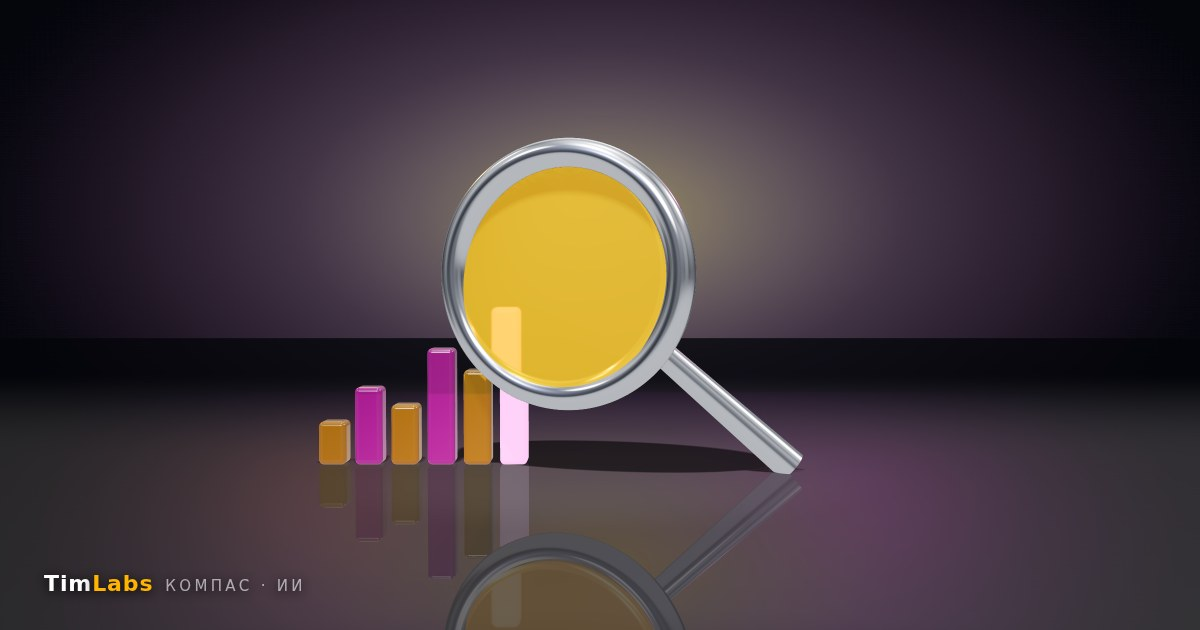
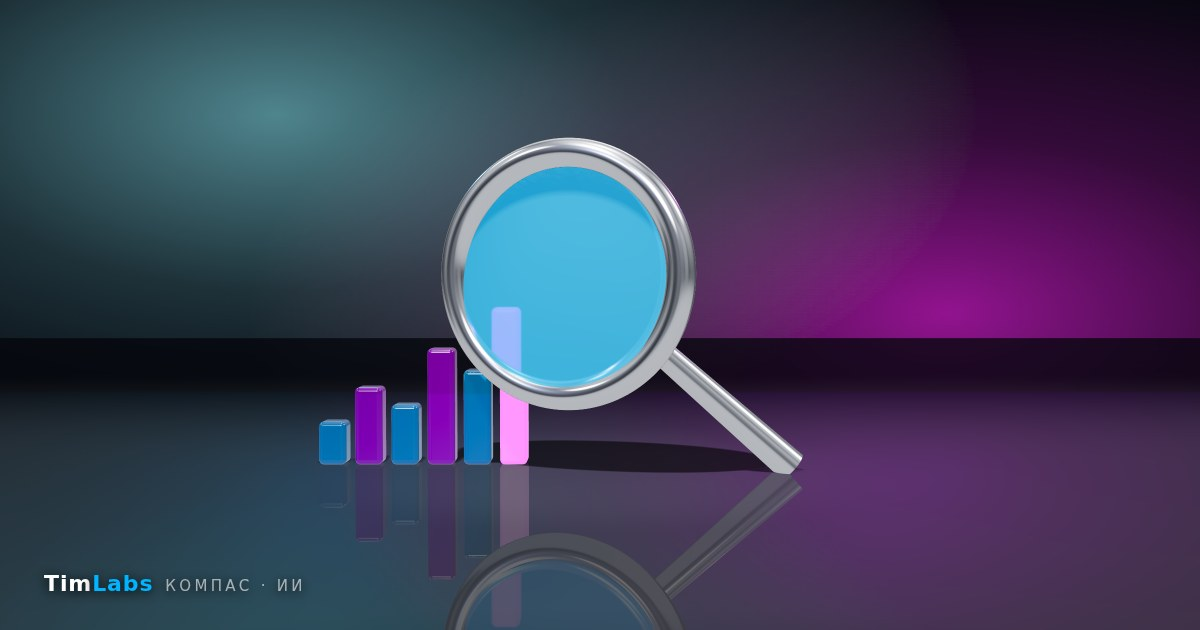
Обложки 3D в фирменной гамме сайта: голубой #00b4ff, пурпурный #d100ff, фон #05070e
Claude-Session: https://claude.ai/code/session_016YepRkJqQsofeKzdWsAcDY

diff --git a/tools/covers/scene.html b/tools/covers/scene.html
@@ -10,12 +10,12 @@ import {FontLoader} from 'three/addons/loaders/FontLoader.js';
 import {TextGeometry} from 'three/addons/geometries/TextGeometry.js';
 import {Reflector} from 'three/addons/objects/Reflector.js';
 const P=new URLSearchParams(location.search),K=P.get('k');
-const C={funnel:['#00b4ff','#d100ff'],agents:['#2aabee','#9b6cff'],channel:['#00e0c6','#2aabee'],seo:['#ffb400','#ff4fd8'],si:['#ff4fd8','#00b4ff']}[K];
+const C=['#00b4ff','#d100ff'];// фирменная гамма сайта: --cyan, --magenta
 document.documentElement.style.setProperty('--a',C[0]);
 const r=new T.WebGLRenderer({antialias:true,preserveDrawingBuffer:true});r.setPixelRatio(2);r.setSize(1200,630);
 r.toneMapping=T.ACESFilmicToneMapping;r.toneMappingExposure=1.05;r.shadowMap.enabled=true;r.shadowMap.type=T.VSMShadowMap;
 document.getElementById('w').prepend(r.domElement);
-const s=new T.Scene();s.background=new T.Color('#04060c');s.fog=new T.Fog('#04060c',13,26);
+const s=new T.Scene();s.background=new T.Color('#05070e');s.fog=new T.Fog('#05070e',13,26);
 const pm=new T.PMREMGenerator(r);s.environment=pm.fromScene(new RoomEnvironment(),0.04).texture;s.environmentIntensity=.6;const hemi=new T.DirectionalLight('#9fb4ff',1.2);hemi.position.set(-3,4,6);s.add(hemi);
 const cam=new T.PerspectiveCamera(32,1200/630,.1,100);cam.position.set(0,2.1,12.2);cam.lookAt(0,1.75,0);
 // floor: dark glossy
@@ -28,15 +28,16 @@ const r1=new T.PointLight(C[0],45,16,2);r1.position.set(-4.5,6,-6);s.add(r1);
 const r2=new T.PointLight(C[1],45,16,2);r2.position.set(4.5,6,-6);s.add(r2);
 const fill=new T.RectAreaLight?null:null;
 // back glow wall
-const g=document.createElement('canvas');g.width=g.height=512;const x=g.getContext('2d');const gr=x.createRadialGradient(256,256,0,256,256,256);gr.addColorStop(0,C[0]+'aa');gr.addColorStop(.45,C[1]+'44');gr.addColorStop(1,'#00000000');x.fillStyle=gr;x.fillRect(0,0,512,512);
-const glow=new T.Mesh(new T.PlaneGeometry(26,14),new T.MeshBasicMaterial({map:new T.CanvasTexture(g),transparent:true,depthWrite:false,fog:false}));glow.position.set(0,3.4,-9);s.add(glow);
+const g=document.createElement('canvas');g.width=g.height=512;const x=g.getContext('2d');x.fillStyle='#00000000';x.fillRect(0,0,512,512);
+for(const [cx,cy,c] of [[150,190,C[0]],[370,320,C[1]]]){const gr=x.createRadialGradient(cx,cy,0,cx,cy,230);gr.addColorStop(0,c+'99');gr.addColorStop(.5,c+'33');gr.addColorStop(1,c+'00');x.fillStyle=gr;x.fillRect(0,0,512,512)}
+const glow=new T.Mesh(new T.PlaneGeometry(30,15),new T.MeshBasicMaterial({map:new T.CanvasTexture(g),transparent:true,depthWrite:false,fog:false}));glow.position.set(0,3.4,-9);s.add(glow);
 const chrome=new T.MeshPhysicalMaterial({color:'#e9eef7',metalness:1,roughness:.12,clearcoat:1});
 const glass=c=>new T.MeshPhysicalMaterial({color:c||'#ffffff',metalness:0,roughness:.06,transmission:.92,thickness:.7,ior:1.45,attenuationColor:c||'#ffffff',attenuationDistance:3,clearcoat:1,iridescence:.35,emissive:c||'#223',emissiveIntensity:.18,envMapIntensity:1.6});
 const neon=c=>new T.MeshStandardMaterial({color:c,emissive:c,emissiveIntensity:3.2,roughness:.3});
 const add=(m,sh=true)=>{m.castShadow=sh;m.receiveShadow=true;s.add(m);return m};
 if(K==='funnel'){
   const pts=[];for(let i=0;i<=40;i++){const t=i/40;pts.push(new T.Vector2(.22+1.75*Math.pow(t,1.35),.25+t*2.6))}
-  const f=add(new T.Mesh(new T.LatheGeometry(pts,160),glass('#bfe9ff')));f.material.side=T.DoubleSide;
+  const f=add(new T.Mesh(new T.LatheGeometry(pts,160),glass('#9fdcff')));f.material.side=T.DoubleSide;
   add(new T.Mesh(new T.TorusGeometry(1.97,.06,24,200),chrome)).position.y=2.85;add(new T.Mesh(new T.TorusGeometry(1.97,.06,24,200),chrome)).rotation.x=Math.PI/2;
   s.children.at(-1).position.y=2.85;s.children.at(-2).rotation.x=Math.PI/2;
   for(let i=0;i<22;i++){const a=i*2.4,rr=.4+((i*37)%100)/100*1.3,h=2.4+((i*53)%100)/100*1.6;const b=add(new T.Mesh(new T.SphereGeometry(.07+((i*13)%5)*.025,32,32),i%3?chrome:neon(i%2?C[0]:C[1])));b.position.set(Math.cos(a)*rr,h,Math.sin(a)*rr*.6)}

diff --git a/tools/covers/README.md b/tools/covers/README.md
@@ -1,5 +1,5 @@
 # Обложки статей — 3D (three.js, физичный свет)
-Стекло/хром/неон, PBR-материалы, зеркальный пол (Reflector), мягкие тени (VSM), ACES.
+Гамма — только фирменная сайта (--cyan #00b4ff, --magenta #d100ff, фон #05070e). Стекло/хром/неон, PBR-материалы, зеркальный пол (Reflector), мягкие тени (VSM), ACES.
 Запуск: `npm i three@0.169.0` в этой папке → `python3 -m http.server 8777` отсюда → `node r3d.js [мотив]`.
 Мотивы (`?k=`): funnel, agents, channel, seo, si — сцена в `scene.html`, соответствие slug — в `r3d.js`.
 Новая статья ИИ-рубрики: добавить мотив в scene.html и строку в map → `media/covers/<slug>.jpg`;
